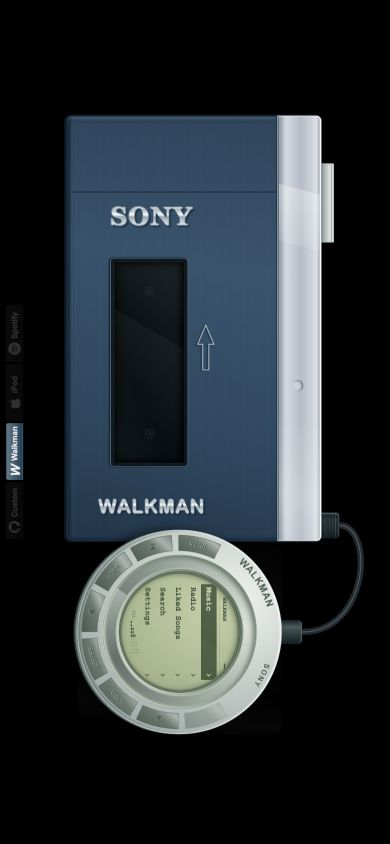
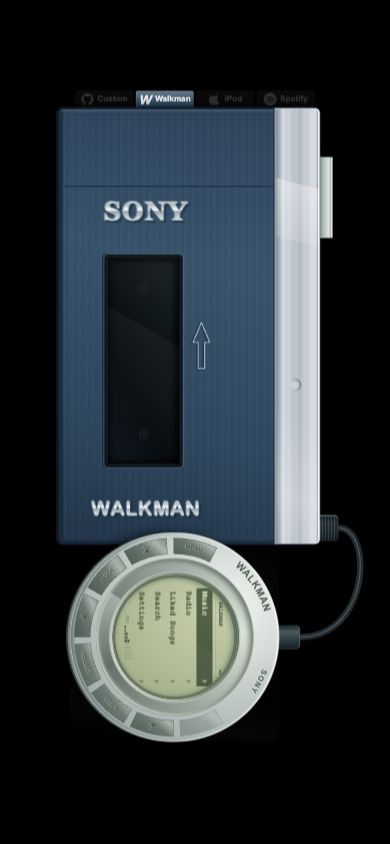
Keep mobile tabs attached to hardware

diff --git a/docs/MACOS_RELEASE.md b/docs/MACOS_RELEASE.md
@@ -1,0 +1,46 @@
+# macOS release signing
+
+Public DMG files must be signed with a `Developer ID Application` certificate and notarized by Apple. Ad-hoc signing is sufficient for local development, but Gatekeeper still requires users to whitelist an app downloaded from the internet.
+
+## Prerequisites
+
+- A paid Apple Developer Program membership. Free accounts cannot notarize applications for public distribution.
+- A `Developer ID Application` certificate exported from Keychain Access as a password-protected `.p12` file.
+- An app-specific password for the Apple ID used for notarization.
+
+## Repository secrets
+
+Add these Actions secrets under **Repository settings → Secrets and variables → Actions**:
+
+| Secret | Value |
+| --- | --- |
+| `APPLE_CERTIFICATE` | Base64-encoded contents of the exported `.p12` file |
+| `APPLE_CERTIFICATE_PASSWORD` | Password assigned while exporting the `.p12` file |
+| `APPLE_ID` | Apple ID email address |
+| `APPLE_PASSWORD` | App-specific password, not the normal Apple ID password |
+| `APPLE_TEAM_ID` | Ten-character Team ID from the Apple Developer membership page |
+| `KEYCHAIN_PASSWORD` | A strong random password used for the temporary CI keychain |
+
+Encode the certificate without line wrapping:
+
+```sh
+openssl base64 -A -in DeveloperIDApplication.p12 -out certificate-base64.txt
+```
+
+Paste the complete contents of `certificate-base64.txt` into `APPLE_CERTIFICATE`. Never commit the `.p12`, encoded certificate, passwords, or Team credentials to the repository.
+
+## Release flow
+
+1. Update the version in `src-tauri/tauri.conf.json` and `src-tauri/Cargo.toml`.
+2. Commit the release changes and push `main`.
+3. Create and push the matching tag, for example `v1.0.1`.
+4. The desktop release workflow imports the certificate into an ephemeral keychain, locates the `Developer ID Application` identity, builds both macOS architectures, and supplies the Apple ID credentials to Tauri for notarization and stapling.
+5. Download both DMG files from the draft or published release and verify them before announcing the release:
+
+```sh
+spctl --assess --type open --context context:primary-signature -v Music\ Player.app
+codesign --verify --deep --strict --verbose=2 Music\ Player.app
+stapler validate Music\ Player.app
+```
+
+The workflow intentionally fails macOS jobs when any required secret is missing. Windows signing remains a separate Authenticode setup.

diff --git a/docs/CUSTOM_SKINS.md b/docs/CUSTOM_SKINS.md
@@ -17,7 +17,6 @@ export const myPlayer = {
     portrait: false,
     fitDesktop: true,
     tabs: { x: 12, y: 96 },
-    rotatedTabs: { x: 96, y: 548 },
   },
   windowAction: "skin-my-player",
   seeking: false,
@@ -32,7 +31,7 @@ export const myPlayer = {
 
 The descriptor must keep the following behavior stable:
 
-- `geometry` describes one fixed design canvas. The shared viewport fitter centers and scales it, applies safe-area insets, and rotates landscape hardware on portrait phones.
+- `geometry` describes one fixed design canvas. `tabs` is the top-left position of the label rail in that canvas. The shared viewport fitter centers and scales the complete hardware, applies safe-area insets, and rotates landscape hardware together with its labels on portrait phones.
 - `homeItems` and `catalogItems` reshape display data only. They must not fetch music or mutate player state.
 - `layout` selects one of the shared browsing layouts.
 - `centerAction` and `rotationAction` map the skin's physical controls to the shared controller actions.
